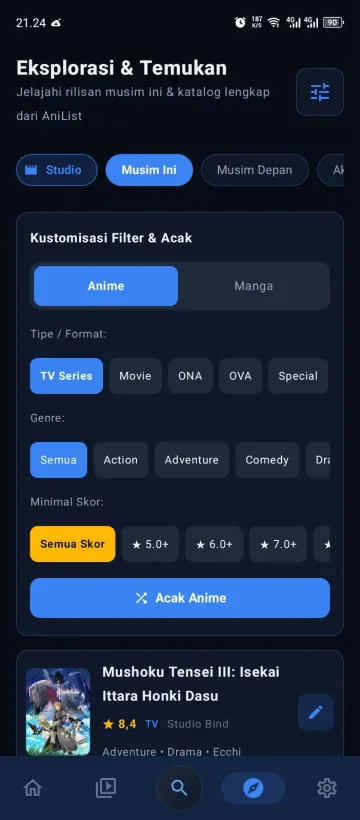
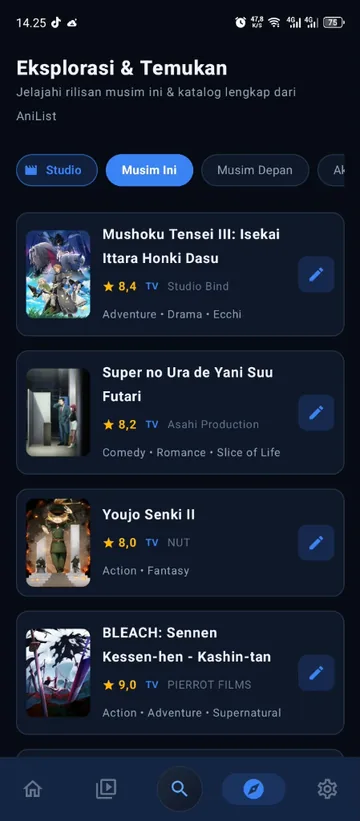
feat: update dashboard and discovery screenshots to latest v5.1.1 user captures

diff --git a/index.html b/index.html
@@ -1079,18 +1079,18 @@
           <!-- Slot 5: Eksplorasi & Discover -->
           <div
             class="w-[240px] sm:w-[260px] flex-shrink-0 snap-center flex flex-col space-y-2 cursor-pointer group reveal-on-scroll delay-300"
-            onclick="openLightbox('assets/screenshots/03-discover.webp', '05. EKSPLORASI &amp; DISCOVER — Temukan Anime &amp; Studio (702 × 1599 HD)')">
+            onclick="openLightbox('assets/screenshots/03-discover.webp', '05. EKSPLORASI &amp; DISCOVER — Rilisan Musim Ini, Tab Studio &amp; Katalog AniList (449 × 1024 HD)')">
             <div
               class="relative aspect-[9/19] rounded-2xl bg-[#0c101a] border border-white/10 overflow-hidden shadow-lg group-hover:border-secondary/60 transition-all flex flex-col">
               <div
                 class="px-3 py-1.5 bg-black/60 backdrop-blur-md border-b border-white/10 flex items-center justify-between z-10">
                 <span class="font-mono text-[8.5px] text-secondary font-bold tracking-wider truncate">05. DISCOVER</span>
-                <span class="font-mono text-[7.5px] text-secondary font-semibold flex-shrink-0">ACAK</span>
+                <span class="font-mono text-[7.5px] text-secondary font-semibold flex-shrink-0">MUSIM INI</span>
               </div>
               <div class="relative flex-1 w-full overflow-hidden bg-surface-container-lowest">
-                <img alt="Eksplorasi dan Temukan Anime"
+                <img alt="Eksplorasi dan Temukan Anime v5.1.1"
                   class="w-full h-full object-cover object-top group-hover:scale-[1.03] transition-transform duration-300"
-                  src="assets/screenshots/03-discover-sm.webp" srcset="assets/screenshots/03-discover-sm.webp 360w, assets/screenshots/03-discover.webp 702w" sizes="(max-width: 640px) 240px, 260px" width="360" height="820" loading="lazy" decoding="async">
+                  src="assets/screenshots/03-discover-sm.webp" srcset="assets/screenshots/03-discover-sm.webp 360w, assets/screenshots/03-discover.webp 449w" sizes="(max-width: 640px) 240px, 260px" width="360" height="821" loading="lazy" decoding="async">
                 <div
                   class="absolute inset-0 bg-secondary/15 opacity-0 group-hover:opacity-100 transition-opacity flex items-center justify-center">
                   <span
